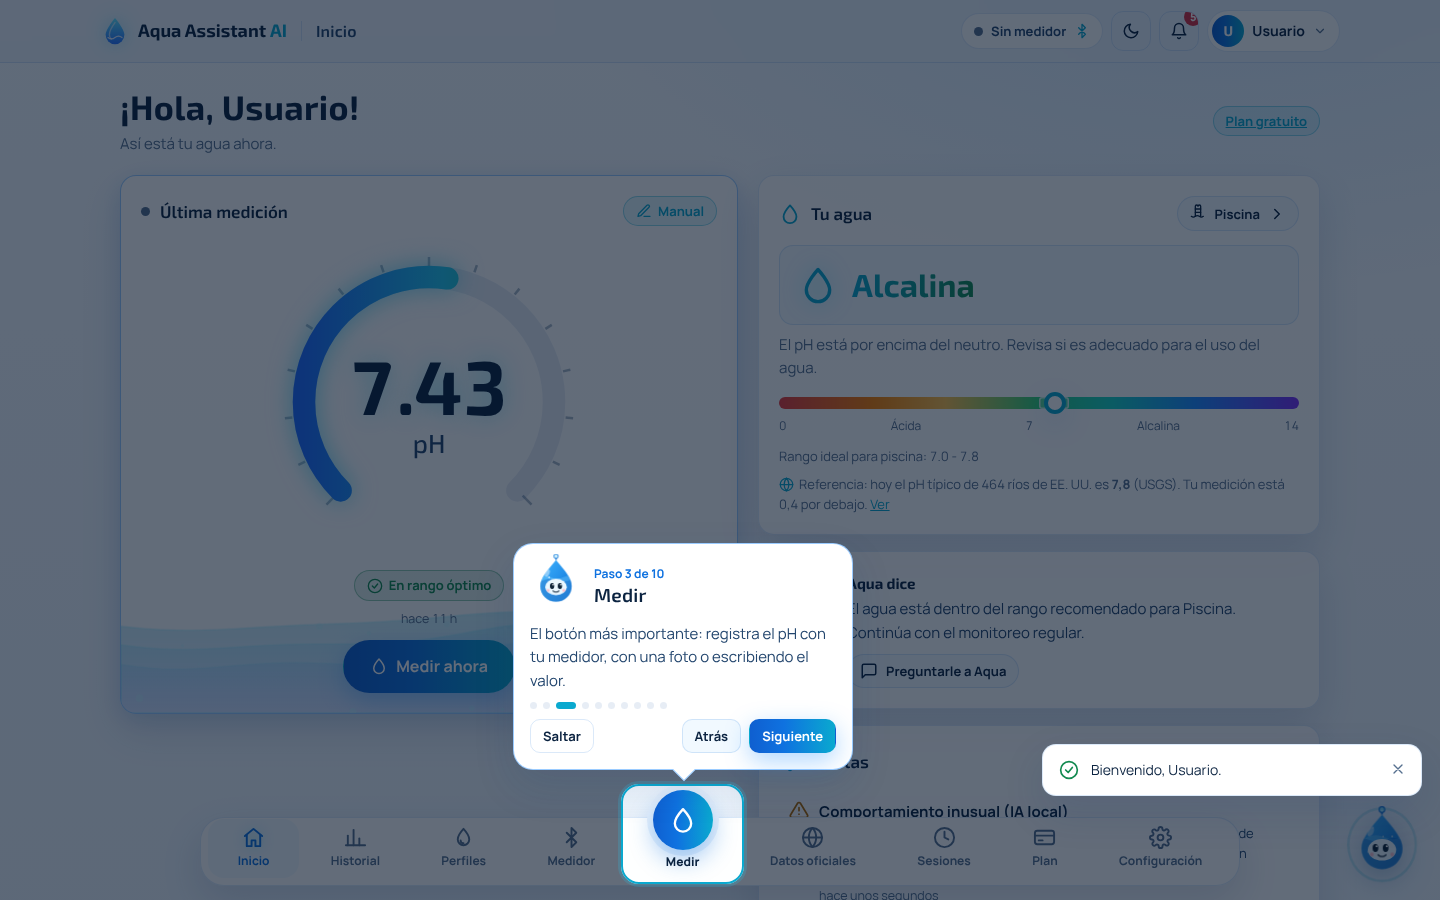
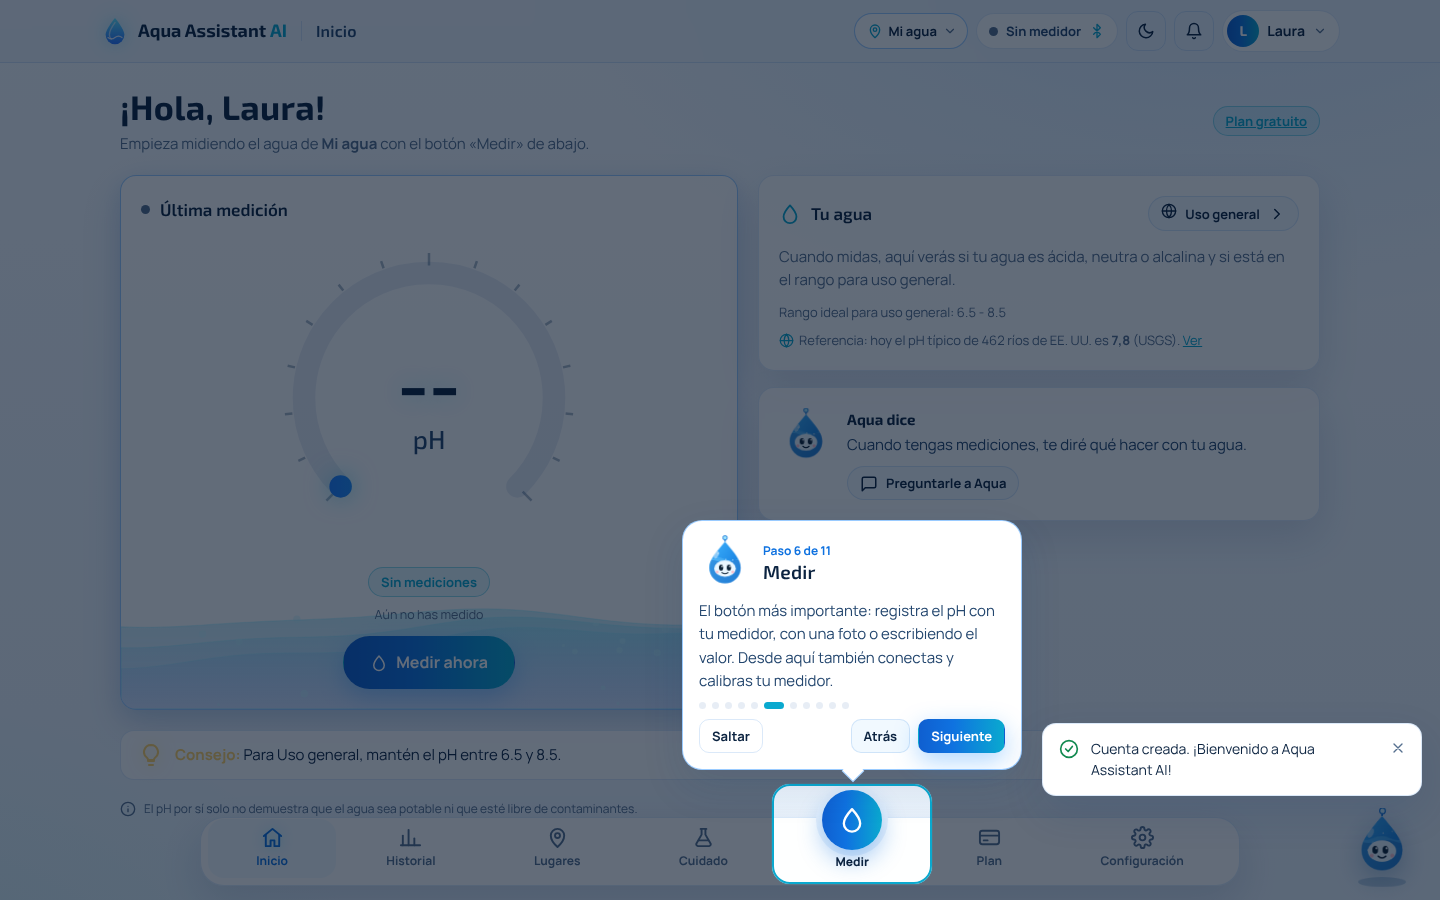
Documentación y MockUps de la navegación simplificada
README, Requerimientos e Issues describen la barra de 7 pestañas, las pantallas agrupadas y las funciones de Aqua por grupos. Se vuelven a capturar los MockUps que cambiaron (5, 8, 9, 14, 15, 21, 23, 24, 30, 33, 34, 36, 37, 38 y 43) con una cuenta temporal ya borrada; sus mediciones son registros manuales de prueba.

diff --git a/docs/Requerimientos.md b/docs/Requerimientos.md
@@ -190,7 +190,7 @@ Estado: **Hecho** = implementado y probado en la aplicación publicada; **Parcia
 - [x] La calibración envía el punto y el valor del buffer y muestra la respuesta del medidor.
 - [ ] Pendiente: probarlo con un medidor físico (hasta ahora con puerto simulado).
 
-**MockUp8** · Conexión del medidor
+**MockUp8** · Medidor, dentro de Configuración
 
 ![MockUp8](mockups/MockUp8.png)
 
@@ -208,7 +208,7 @@ Estado: **Hecho** = implementado y probado en la aplicación publicada; **Parcia
 - [x] El formulario rechaza rangos incoherentes (mínimo mayor que máximo, fuera de 0–14).
 - [x] Los perfiles predefinidos muestran la fuente de sus rangos.
 
-**MockUp9** · Perfiles de agua
+**MockUp9** · Perfiles de uso, dentro de Lugares
 
 ![MockUp9](mockups/MockUp9.png)
 
@@ -270,11 +270,11 @@ Estado: **Hecho** = implementado y probado en la aplicación publicada; **Parcia
 - [x] No aparecen citas que no estén en la biblioteca normativa.
 - [x] Si la IA no responde, el diagnóstico por reglas se marca como tal.
 
-**MockUp14** · Diagnóstico IA con fuentes
+**MockUp14** · Diagnóstico y recomendaciones con fuentes
 
 ![MockUp14](mockups/MockUp14.png)
 
-**MockUp15** · Biblioteca normativa
+**MockUp15** · Biblioteca normativa (Normas y Datos oficiales)
 
 ![MockUp15](mockups/MockUp15.png)
 
@@ -387,7 +387,7 @@ Estado: **Hecho** = implementado y probado en la aplicación publicada; **Parcia
 - [x] El tema claro es el predeterminado para cuentas nuevas y para quien no ha iniciado sesión.
 - [x] El cambio de tema se aplica al instante y se conserva al volver a entrar.
 
-**MockUp21** · Configuración (tema claro activo)
+**MockUp21** · Configuración con Medidor y Actividad arriba
 
 ![MockUp21](mockups/MockUp21.png)
 
@@ -423,7 +423,7 @@ Estado: **Hecho** = implementado y probado en la aplicación publicada; **Parcia
 - [x] «Cerrar mis otras sesiones» invalida los demás tokens al instante.
 - [x] El detalle de una sesión muestra sus acciones en orden.
 
-**MockUp23** · Historial de sesiones
+**MockUp23** · Actividad y sesiones, dentro de Configuración
 
 ![MockUp23](mockups/MockUp23.png)
 
@@ -441,7 +441,7 @@ Estado: **Hecho** = implementado y probado en la aplicación publicada; **Parcia
 - [x] Se muestra la fecha de la última importación terminada.
 - [x] Si el USGS no responde, se conservan los datos anteriores y se reintenta.
 
-**MockUp24** · Datos oficiales del USGS
+**MockUp24** · Datos oficiales del USGS, dentro de la Biblioteca
 
 ![MockUp24](mockups/MockUp24.png)
 
@@ -488,7 +488,7 @@ Estado: **Hecho** = implementado y probado en la aplicación publicada; **Parcia
 
 ![MockUp33](mockups/MockUp33.png)
 
-**MockUp34** · Panel de Aqua con el chat y las funciones de IA
+**MockUp34** · Panel de Aqua con el chat y las funciones agrupadas
 
 ![MockUp34](mockups/MockUp34.png)
 
@@ -699,7 +699,7 @@ Estado: **Hecho** = implementado y probado en la aplicación publicada; **Parcia
 
 **Como** usuario de computador o celular, **quiero** una interfaz clara que funcione en cualquier pantalla, **para** usarla cómodamente donde esté.
 
-**Descripción.** Navegación con una barra inferior que tiene todas las pantallas con su ícono (Inicio, Historial, Lugares, Cuidado, Medir, Perfiles, Medidor, Datos oficiales, Sesiones, Plan, Configuración y Admin para administradores), igual en celular y computador; en el celular se desliza hacia los lados. La sesión se cierra solo desde el menú del usuario (la inicial o el nombre, arriba a la derecha). Tema claro predeterminado y oscuro opcional, navegación por teclado y lector de pantalla. Revisión con axe-core: 0 hallazgos en 18 pantallas, el recorrido, el panel de Aqua y las hojas «Medir» y «Más», en tema claro y oscuro, en computador y teléfono.
+**Descripción.** Navegación con una barra inferior de 7 pestañas con su ícono (Inicio, Historial, Lugares, Cuidado, Medir, Plan, Configuración y Admin para administradores), igual en celular y computador; en el celular cabe sin deslizar. Las pantallas de apoyo están dentro de otra, con una fila de enlaces arriba: Perfiles de uso en Lugares; Medidor y Actividad y sesiones en Configuración; Datos oficiales en la Biblioteca normativa de Aqua. Las funciones de Aqua se agrupan en «Analizar mi agua» (diagnóstico y recomendaciones, anomalías, predicción), «Más herramientas» (informes, biblioteca, foto) y «Análisis avanzado» (LSTM, Isolation Forest, simulador); «Consumo y costos» es solo para administradores. La sesión se cierra solo desde el menú del usuario (la inicial o el nombre, arriba a la derecha). Tema claro predeterminado y oscuro opcional, navegación por teclado y lector de pantalla. Revisión con axe-core: 0 hallazgos en 18 pantallas, el recorrido, el panel de Aqua y las hojas «Medir» y «Más», en tema claro y oscuro, en computador y teléfono.
 
 **Criterios de aceptación**
 
@@ -711,7 +711,7 @@ Estado: **Hecho** = implementado y probado en la aplicación publicada; **Parcia
 
 ![MockUp30](mockups/MockUp30.png)
 
-**MockUp37** · Menú del usuario con «Cerrar sesión» y la barra con todas las pantallas
+**MockUp37** · Menú del usuario con «Cerrar sesión» y la barra de 7 pestañas
 
 ![MockUp37](mockups/MockUp37.png)
 
@@ -777,23 +777,23 @@ _Requerimiento sin pantalla propia: se comprueba con las pruebas automáticas y 
 | [MockUp5](mockups/MockUp5.png) | Inicio (panel principal) con la barra inferior y Aqua | RF-04 |
 | [MockUp6](mockups/MockUp6.png) | Registro manual de una medición | RF-05 |
 | [MockUp7](mockups/MockUp7.png) | Historial con gráfica (30 días) | RF-06 |
-| [MockUp8](mockups/MockUp8.png) | Conexión del medidor | RF-07 |
-| [MockUp9](mockups/MockUp9.png) | Perfiles de agua | RF-08 |
+| [MockUp8](mockups/MockUp8.png) | Medidor, dentro de Configuración | RF-07 |
+| [MockUp9](mockups/MockUp9.png) | Perfiles de uso, dentro de Lugares | RF-08 |
 | [MockUp10](mockups/MockUp10.png) | Detección de anomalías | RF-09 |
 | [MockUp11](mockups/MockUp11.png) | Aprendizaje automático (Isolation Forest) | RF-09 |
 | [MockUp12](mockups/MockUp12.png) | Predicción de tendencias | RF-10 |
 | [MockUp13](mockups/MockUp13.png) | Red neuronal LSTM (sin datos suficientes) | RF-10 |
-| [MockUp14](mockups/MockUp14.png) | Diagnóstico IA con fuentes | RF-11 |
-| [MockUp15](mockups/MockUp15.png) | Biblioteca normativa | RF-11 |
+| [MockUp14](mockups/MockUp14.png) | Diagnóstico y recomendaciones con fuentes | RF-11 |
+| [MockUp15](mockups/MockUp15.png) | Biblioteca normativa (Normas y Datos oficiales) | RF-11 |
 | [MockUp16](mockups/MockUp16.png) | Simulador de escenarios | RF-12 |
 | [MockUp17](mockups/MockUp17.png) | Agente de informes | RF-13 |
 | [MockUp18](mockups/MockUp18.png) | Asistente IA (respuesta completa) | RF-14 |
 | [MockUp19](mockups/MockUp19.png) | Lectura de pH por foto | RF-15 |
 | [MockUp20](mockups/MockUp20.png) | Plan y pagos (PayU en modo de pruebas) | RF-16 |
-| [MockUp21](mockups/MockUp21.png) | Configuración (tema claro activo) | RF-17 |
+| [MockUp21](mockups/MockUp21.png) | Configuración con Medidor y Actividad arriba | RF-17 |
 | [MockUp22](mockups/MockUp22.png) | Foto de perfil | RF-18 |
-| [MockUp23](mockups/MockUp23.png) | Historial de sesiones | RF-19 |
-| [MockUp24](mockups/MockUp24.png) | Datos oficiales del USGS | RF-20 |
+| [MockUp23](mockups/MockUp23.png) | Actividad y sesiones, dentro de Configuración | RF-19 |
+| [MockUp24](mockups/MockUp24.png) | Datos oficiales del USGS, dentro de la Biblioteca | RF-20 |
 | [MockUp25](mockups/MockUp25.png) | Administración (cuentas reales difuminadas) | RF-21 |
 | [MockUp26](mockups/MockUp26.png) | Consumo y costos de IA | RF-21 |
 | [MockUp27](mockups/MockUp27.png) | Bloqueo tras 5 intentos fallidos | RNF-01 |
@@ -803,10 +803,10 @@ _Requerimiento sin pantalla propia: se comprueba con las pruebas automáticas y 
 | [MockUp31](mockups/MockUp31.png) | Datos enmascarados para el administrador de demostración | RNF-05 |
 | [MockUp32](mockups/MockUp32.png) | Inicio de sesión en un celular | RNF-07 |
 | [MockUp33](mockups/MockUp33.png) | Recorrido guiado: Aqua señala el botón Medir | RF-22 |
-| [MockUp34](mockups/MockUp34.png) | Panel de Aqua con el chat y las funciones de IA | RF-22 |
+| [MockUp34](mockups/MockUp34.png) | Panel de Aqua con el chat y las funciones agrupadas | RF-22 |
 | [MockUp35](mockups/MockUp35.png) | Chat con Aqua dentro de su panel (celular) | RF-14 |
 | [MockUp36](mockups/MockUp36.png) | Medir: las tres formas de registrar el pH | RF-04 |
-| [MockUp37](mockups/MockUp37.png) | Menú del usuario con «Cerrar sesión» y la barra con todas las pantallas | RNF-04 |
+| [MockUp37](mockups/MockUp37.png) | Menú del usuario con «Cerrar sesión» y la barra de 7 pestañas | RNF-04 |
 | [MockUp38](mockups/MockUp38.png) | Lugares con el cuadro «¿Para qué sirven?» | RF-23 |
 | [MockUp39](mockups/MockUp39.png) | Compartir un lugar con un código | RF-26 |
 | [MockUp40](mockups/MockUp40.png) | Calculadora de dosis con resultado | RF-24 |

diff --git a/README.md b/README.md
@@ -10,9 +10,9 @@ Presentar la información y recoger las acciones del usuario. **Toda la lógica 
 
 ## Funcionalidades
 
-- **Barra inferior con todas las pantallas** (`js/views/Shell.js`), igual en computador y celular: Inicio, Historial, Lugares, Cuidado, **Medir** (botón central: medidor, foto o escribir el valor; `MeasureSheet.js`), Perfiles, Medidor, Datos oficiales, Sesiones, Plan, Configuración y, para administradores, Admin. En el celular la barra se desliza hacia los lados y siempre muestra la pantalla abierta.
+- **Barra inferior de 7 pestañas** (`js/views/Shell.js`), igual en computador y celular: Inicio, Historial, Lugares, Cuidado, **Medir** (botón central: medidor, foto o escribir el valor, y el enlace para conectar o calibrar el medidor; `MeasureSheet.js`), Plan, Configuración y, para administradores, Admin. Las pantallas de apoyo viven dentro de otra, con una fila de enlaces arriba (`js/ui/SubNav.js`) y la pestaña que las contiene encendida: **Perfiles de uso** dentro de Lugares; **Medidor** y **Actividad y sesiones** dentro de Configuración; **Datos oficiales** junto a las normas, en la Biblioteca normativa de Aqua. En el celular la barra cabe sin deslizar («Ajustes» es el nombre corto de Configuración); con Admin se desliza.
 - **Menú del usuario**: la inicial o el nombre (arriba a la derecha) abren "Mi cuenta" y **Cerrar sesión**, el único lugar desde donde se cierra la sesión. Se usa con el teclado (flechas y Esc).
-- **Aqua, el robot de la IA** (`js/views/AquaBot.js`, `js/ui/AquaFace.js`): una gota con cara que salta sola en todas las pantallas (se aplasta al caer, deja ondas y a veces da una voltereta) y es la única entrada a la inteligencia artificial. Al tocarlo se abre un panel para chatear (el asistente con memoria y citas), preguntar directamente o abrir cualquier función: diagnóstico, anomalías, recomendaciones, predicción, red neuronal, escenarios, aprendizaje automático, informes, biblioteca normativa, consumo y lectura por foto. Al abrir cada pantalla da un consejo corto sobre para qué sirve (se puede desactivar). Está animado: el agua se mueve dentro de la gota y suben burbujas, parpadea, sus ojos siguen el puntero, mueve la boca cuando habla, su antena se enciende mientras la IA trabaja en cualquier pantalla y de vez en cuando salta, guiña o gira (nada se mueve si el sistema pide reducir el movimiento).
+- **Aqua, el robot de la IA** (`js/views/AquaBot.js`, `js/ui/AquaFace.js`): una gota con cara que salta sola en todas las pantallas (se aplasta al caer, deja ondas y a veces da una voltereta) y es la única entrada a la inteligencia artificial. Al tocarlo se abre un panel para chatear (el asistente con memoria y citas), preguntar directamente o abrir sus funciones, en tres grupos: **Analizar mi agua** (diagnóstico y recomendaciones juntos, anomalías y predicción del pH), **Más herramientas** (agente de informes, biblioteca normativa con los datos oficiales, leer el pH de una foto) y **Análisis avanzado** (red neuronal LSTM e Isolation Forest, entrenados con los datos de la persona, y simulador de escenarios). «Consumo y costos» solo aparece para administradores y la lista de conversaciones se abre desde el chat. Al abrir cada pantalla da un consejo corto sobre para qué sirve (se puede desactivar). Está animado: el agua se mueve dentro de la gota y suben burbujas, parpadea, sus ojos siguen el puntero, mueve la boca cuando habla, su antena se enciende mientras la IA trabaja en cualquier pantalla y de vez en cuando salta, guiña o gira (nada se mueve si el sistema pide reducir el movimiento).
 - **Voz de Aqua** (`js/core/Voice.js`): al abrirla saluda en voz alta («Hola, Ana. ¿En qué te puedo ayudar?») y lee cada respuesta frase por frase mientras llega, en el idioma de la app, moviendo la boca. Usa las voces del dispositivo y elige la más natural (neuronales de Edge, de Google en Chrome, mejoradas de iPhone y Android). Se apaga con el altavoz del panel de Aqua o en Configuración, donde se elige la voz y la velocidad.
 - **Toda la app en 7 idiomas: español, inglés, francés, alemán, italiano, chino y japonés** (`js/core/I18n.js`, `js/core/Locale.js`): selector en Configuración y en la pantalla de inicio de sesión. Un `MutationObserver` traduce cada texto, botón, etiqueta y mensaje de la página, también los que aparecen después. Las traducciones vienen del backend, que traduce cada texto una vez por idioma con la IA y las comparte con todos; el navegador guarda una copia para que la siguiente visita sea inmediata. Las frases con negritas o enlaces viajan con marcadores (`<0>…</0>`) y los números como `{0}`. El servidor mantiene traducidos de antemano todos los textos de la app, así que cambiar de idioma es inmediato. Fechas, números y tiempos relativos usan el formato del idioma. Lo que escribe la persona (nombres, notas, chats) lleva `translate="no"`. Los informes PDF salen en el idioma elegido, también en chino y japonés.
 - **Lugares** (`#/places`, `js/views/Places.js`): cada piscina, acuario o tanque con su historial, perfil y volumen. El lugar en uso se ve y se cambia arriba. Se comparte con un código (solo ver, o ver y medir) y se une otra persona escribiéndolo; el dueño ve y quita a quien se unió.

diff --git a/docs/issues/33-RNF-04.md b/docs/issues/33-RNF-04.md
@@ -7,7 +7,7 @@
 
 ## Descripción
 
-Navegación con una barra inferior que tiene todas las pantallas con su ícono (Inicio, Historial, Lugares, Cuidado, Medir, Perfiles, Medidor, Datos oficiales, Sesiones, Plan, Configuración y Admin para administradores), igual en celular y computador; en el celular se desliza hacia los lados. La sesión se cierra solo desde el menú del usuario (la inicial o el nombre, arriba a la derecha). Tema claro predeterminado y oscuro opcional, navegación por teclado y lector de pantalla. Revisión con axe-core: 0 hallazgos en 18 pantallas, el recorrido, el panel de Aqua y las hojas «Medir» y «Más», en tema claro y oscuro, en computador y teléfono.
+Navegación con una barra inferior de 7 pestañas con su ícono (Inicio, Historial, Lugares, Cuidado, Medir, Plan, Configuración y Admin para administradores), igual en celular y computador; en el celular cabe sin deslizar. Las pantallas de apoyo están dentro de otra, con una fila de enlaces arriba: Perfiles de uso en Lugares; Medidor y Actividad y sesiones en Configuración; Datos oficiales en la Biblioteca normativa de Aqua. Las funciones de Aqua se agrupan en «Analizar mi agua» (diagnóstico y recomendaciones, anomalías, predicción), «Más herramientas» (informes, biblioteca, foto) y «Análisis avanzado» (LSTM, Isolation Forest, simulador); «Consumo y costos» es solo para administradores. La sesión se cierra solo desde el menú del usuario (la inicial o el nombre, arriba a la derecha). Tema claro predeterminado y oscuro opcional, navegación por teclado y lector de pantalla. Revisión con axe-core: 0 hallazgos en 18 pantallas, el recorrido, el panel de Aqua y las hojas «Medir» y «Más», en tema claro y oscuro, en computador y teléfono.
 
 ## Criterios de aceptación
 
@@ -21,7 +21,7 @@ Navegación con una barra inferior que tiene todas las pantallas con su ícono (
 
 ![MockUp30](https://raw.githubusercontent.com/WillC372/FrontendPatSft/main/docs/mockups/MockUp30.png)
 
-**MockUp37** · Menú del usuario con «Cerrar sesión» y la barra con todas las pantallas
+**MockUp37** · Menú del usuario con «Cerrar sesión» y la barra de 7 pestañas
 
 ![MockUp37](https://raw.githubusercontent.com/WillC372/FrontendPatSft/main/docs/mockups/MockUp37.png)
 

diff --git a/docs/issues/11-RF-11.md b/docs/issues/11-RF-11.md
@@ -17,11 +17,11 @@ Diagnóstico estructurado (JSON validado) con causas, acciones y citas literales
 
 ## MockUp
 
-**MockUp14** · Diagnóstico IA con fuentes
+**MockUp14** · Diagnóstico y recomendaciones con fuentes
 
 ![MockUp14](https://raw.githubusercontent.com/WillC372/FrontendPatSft/main/docs/mockups/MockUp14.png)
 
-**MockUp15** · Biblioteca normativa
+**MockUp15** · Biblioteca normativa (Normas y Datos oficiales)
 
 ![MockUp15](https://raw.githubusercontent.com/WillC372/FrontendPatSft/main/docs/mockups/MockUp15.png)
 

diff --git a/docs/issues/22-RF-22.md b/docs/issues/22-RF-22.md
@@ -23,7 +23,7 @@ Aqua, un robot con forma de gota, salta solo en todas las pantallas (se aplasta 
 
 ![MockUp33](https://raw.githubusercontent.com/WillC372/FrontendPatSft/main/docs/mockups/MockUp33.png)
 
-**MockUp34** · Panel de Aqua con el chat y las funciones de IA
+**MockUp34** · Panel de Aqua con el chat y las funciones agrupadas
 
 ![MockUp34](https://raw.githubusercontent.com/WillC372/FrontendPatSft/main/docs/mockups/MockUp34.png)
 

diff --git a/docs/issues/17-RF-17.md b/docs/issues/17-RF-17.md
@@ -16,7 +16,7 @@ Preferencias guardadas en el servidor. El tema claro es el predeterminado. La ap
 
 ## MockUp
 
-**MockUp21** · Configuración (tema claro activo)
+**MockUp21** · Configuración con Medidor y Actividad arriba
 
 ![MockUp21](https://raw.githubusercontent.com/WillC372/FrontendPatSft/main/docs/mockups/MockUp21.png)
 

diff --git a/docs/issues/20-RF-20.md b/docs/issues/20-RF-20.md
@@ -17,7 +17,7 @@ Importación periódica (cada 3 horas) de datos de pH del Servicio Geológico de
 
 ## MockUp
 
-**MockUp24** · Datos oficiales del USGS
+**MockUp24** · Datos oficiales del USGS, dentro de la Biblioteca
 
 ![MockUp24](https://raw.githubusercontent.com/WillC372/FrontendPatSft/main/docs/mockups/MockUp24.png)
 

diff --git a/docs/issues/19-RF-19.md b/docs/issues/19-RF-19.md
@@ -17,7 +17,7 @@ Lista de sesiones con su estado y acciones; «Cerrar mis otras sesiones» las te
 
 ## MockUp
 
-**MockUp23** · Historial de sesiones
+**MockUp23** · Actividad y sesiones, dentro de Configuración
 
 ![MockUp23](https://raw.githubusercontent.com/WillC372/FrontendPatSft/main/docs/mockups/MockUp23.png)
 

diff --git a/docs/issues/07-RF-07.md b/docs/issues/07-RF-07.md
@@ -18,7 +18,7 @@ Desde Chrome o Edge (Web Serial) la app abre el puerto del medidor y admite tres
 
 ## MockUp
 
-**MockUp8** · Conexión del medidor
+**MockUp8** · Medidor, dentro de Configuración
 
 ![MockUp8](https://raw.githubusercontent.com/WillC372/FrontendPatSft/main/docs/mockups/MockUp8.png)
 

diff --git a/docs/issues/08-RF-08.md b/docs/issues/08-RF-08.md
@@ -17,7 +17,7 @@ Perfiles predefinidos con su fuente y rangos ideal y crítico; perfiles personal
 
 ## MockUp
 
-**MockUp9** · Perfiles de agua
+**MockUp9** · Perfiles de uso, dentro de Lugares
 
 ![MockUp9](https://raw.githubusercontent.com/WillC372/FrontendPatSft/main/docs/mockups/MockUp9.png)
 
